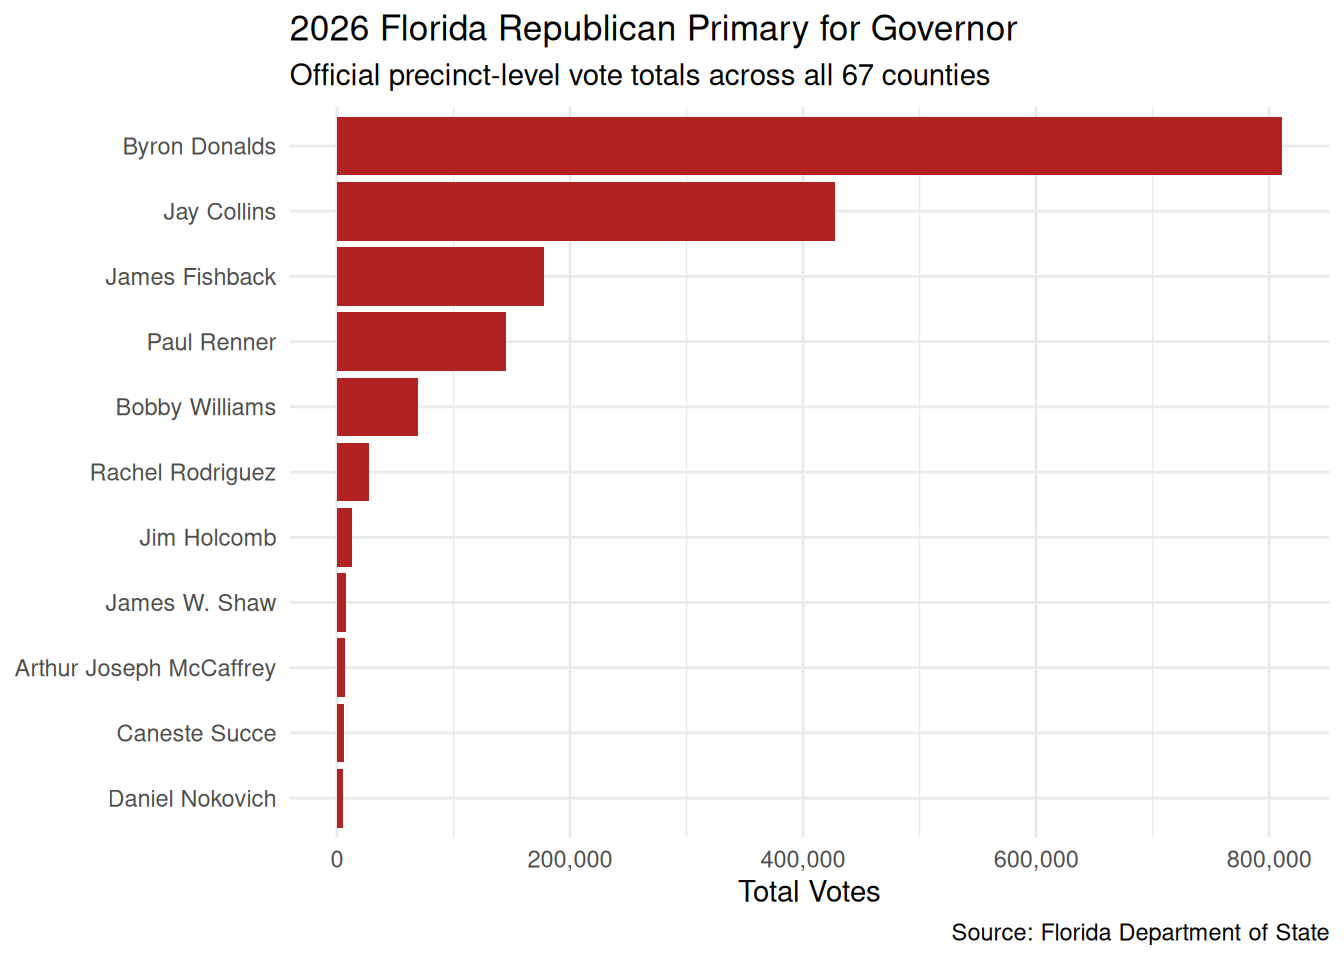
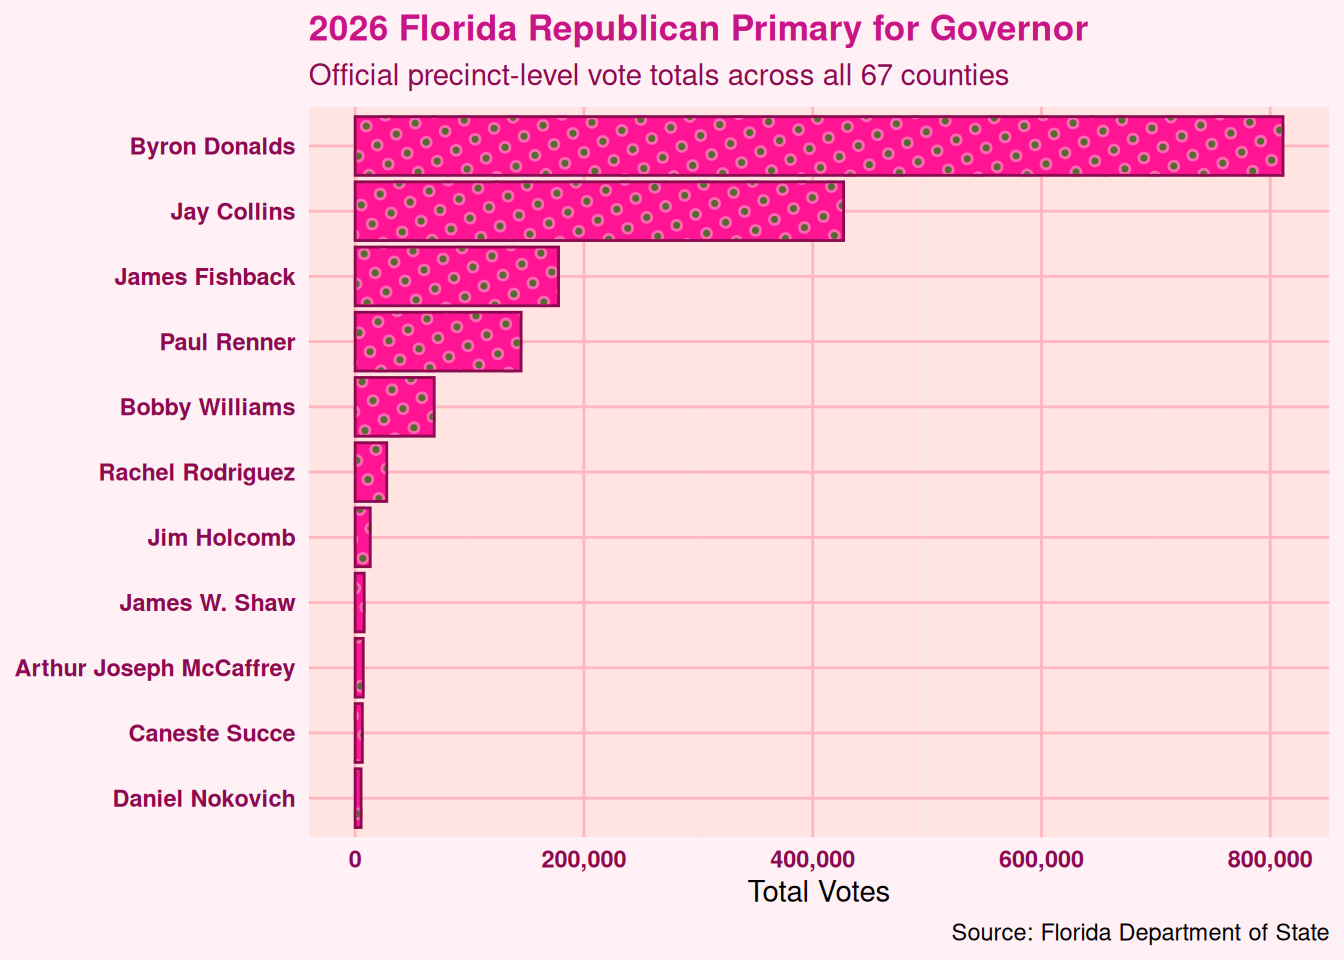
Built site for gh-pages

diff --git a/analysis.html b/analysis.html
@@ -6,6 +6,7 @@
 
 <meta name="viewport" content="width=device-width, initial-scale=1.0, user-scalable=yes">
 
+<meta name="author" content="Trinity Harden">
 
 <title>2026 Florida Republican Primary for Governor</title>
 <style>
@@ -59,6 +60,12 @@ ul.task-list li input[type="checkbox"] {
 
 <div class="quarto-title-meta">
 
+    <div>
+    <div class="quarto-title-meta-heading">Author</div>
+    <div class="quarto-title-meta-contents">
+             <p>Trinity Harden </p>
+          </div>
+  </div>
     
   
     

diff --git a/index.html b/index.html
@@ -6,6 +6,7 @@
 
 <meta name="viewport" content="width=device-width, initial-scale=1.0, user-scalable=yes">
 
+<meta name="author" content="Trinity Harden">
 
 <title>2026 Florida Republican Primary for Governor</title>
 <style>
@@ -59,6 +60,12 @@ ul.task-list li input[type="checkbox"] {
 
 <div class="quarto-title-meta">
 
+    <div>
+    <div class="quarto-title-meta-heading">Author</div>
+    <div class="quarto-title-meta-contents">
+             <p>Trinity Harden </p>
+          </div>
+  </div>
     
   
     
